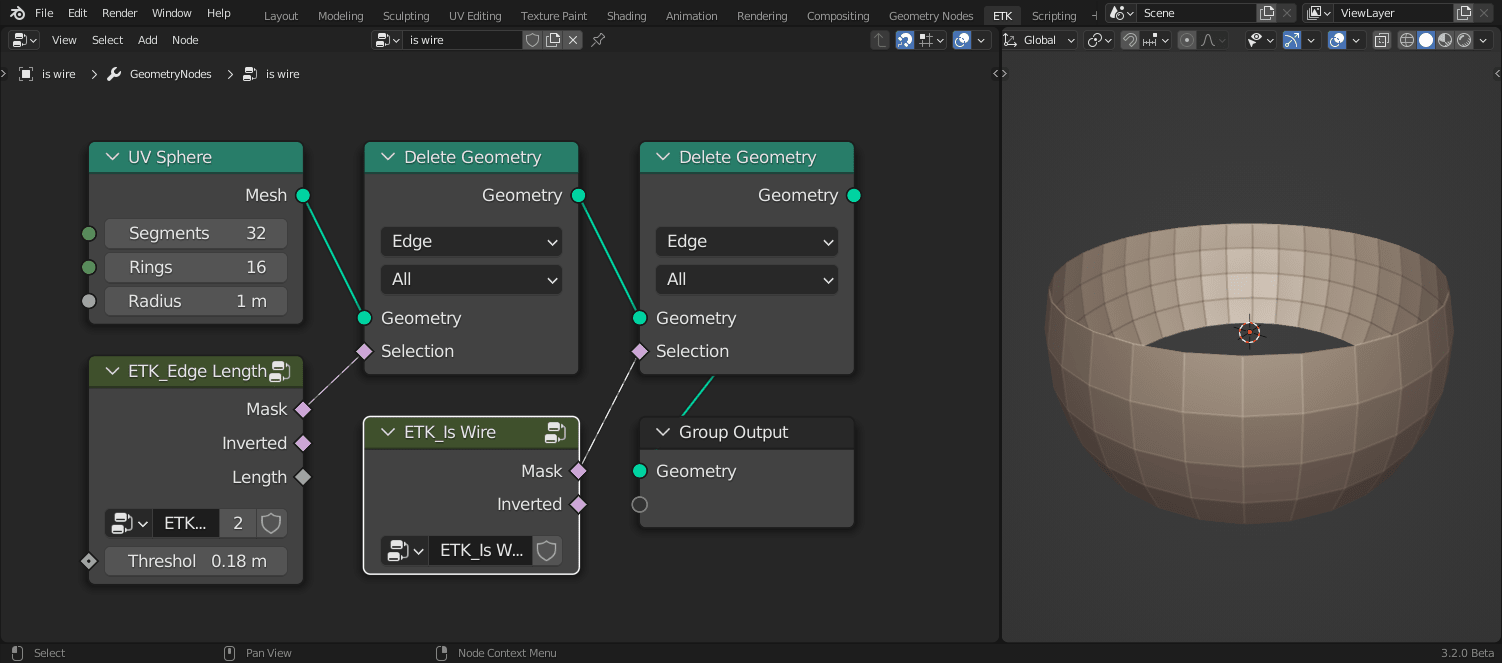
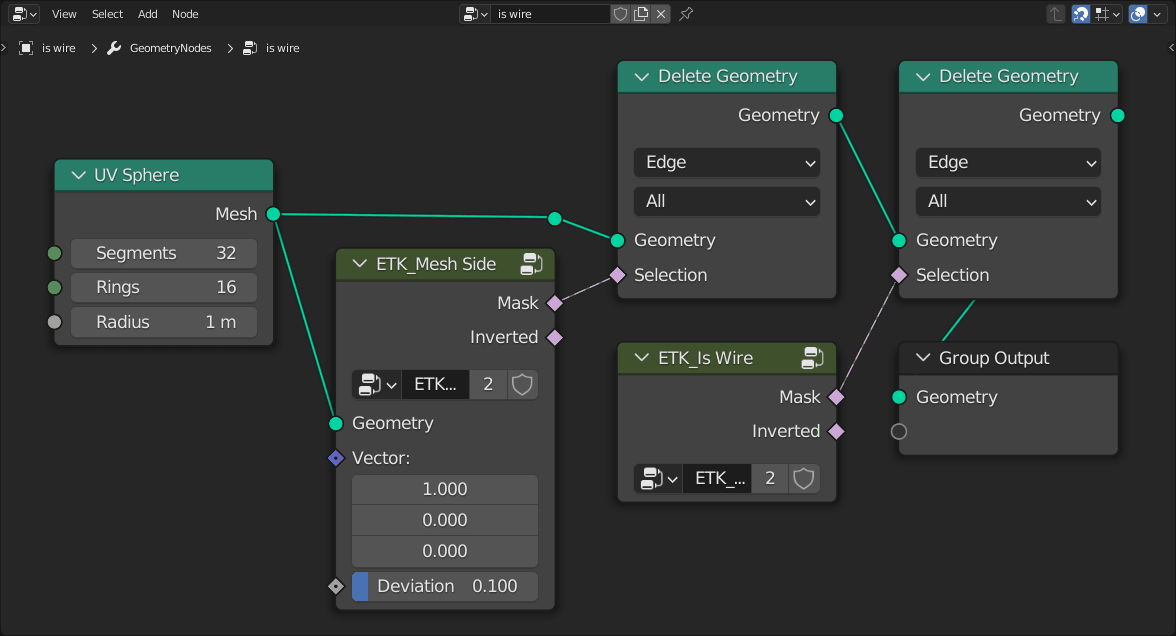
Separating examples and index work.

diff --git a/ref_manual/nodes/masks/edge_length.rst b/ref_manual/nodes/masks/edge_length.rst
@@ -44,6 +44,7 @@ Outputs
 Examples
 =========
 
+.. index:: Extended Examples; Building a shape with masks
 .. _masks-edge_length-example:
 
 .. rubric:: Building a shape with masks
@@ -59,10 +60,9 @@ observed values in the spreadsheet.
 
    Step 1: Remove all edges less than 0.12m from a sphere.
 
-Removing the vertex at the top and bottom will leave us with a
-truncated sphere. There are several ways to do this but using the
-built-in **Edge Neighbors** node to determine absent faces seems like
-the easiest. [#]_
+The edge removal in this fashion will leave faceless edges and these
+*wires* can be identified and cleaned up with an
+:ref:`etk-masks-is_wire` node group.
 
 .. figure:: /images/nodes-edge_length_basic_b.png
    :align: center
@@ -91,10 +91,3 @@ upwards and the lower boundary downwards.
    :width: 800
 
    Step 4: Controlling the extrusion with standard geometry nodes.
-
-
------------
-
-.. rubric:: Footnotes
-
-.. [#] See also :ref:`etk-masks-is_wire`.

diff --git a/ref_manual/nodes/masks/is_wire.rst b/ref_manual/nodes/masks/is_wire.rst
@@ -34,9 +34,19 @@ Outputs
 Examples
 =========
 
-Referring to the example in :ref:`masks-edge_length-example`, it is
-possible to also clean up dangling edges in that example with the
-**Is Wire** node group.
+.. figure:: /images/nodes-is_wire_basic_comp.png
+   :align: right
+
+   Edge artifacts, before and after.
+
+Floating point operations can sometimes cause unwanted artifacts to be
+left on objects manipulated by geometery nodes. The **Is Wire** node
+group is a useful node for taking care of this by removing edges with
+no faces (wires). On the right is an example created with a
+:ref:`etk-masks-mesh_side` node group on a UVSphere. The image on the left
+is with the final geometry masked, and unmasked on the right.
+
+See also :ref:`masks-edge_length-example`.
 
 .. figure:: /images/nodes-is_wire_basic.png
    :align: center

diff --git a/ref_manual/nodes/masks/expand_selection.rst b/ref_manual/nodes/masks/expand_selection.rst
@@ -28,7 +28,7 @@ Inputs
 
 |INTEGER_FIELD_SINGLE| Grow
 
-   Amount to grow the selection, 0 is no growth.
+   Amount to grow the selection.
 
 Outputs
 ========
@@ -39,7 +39,8 @@ Outputs
 
 |BOOLEAN_FIELD| Selection
 
-   The output selection, larger based on the *Grow* input value.
+   The output selection, larger than the input selection based on the
+   *Grow* input value.
 
 Examples
 =========
